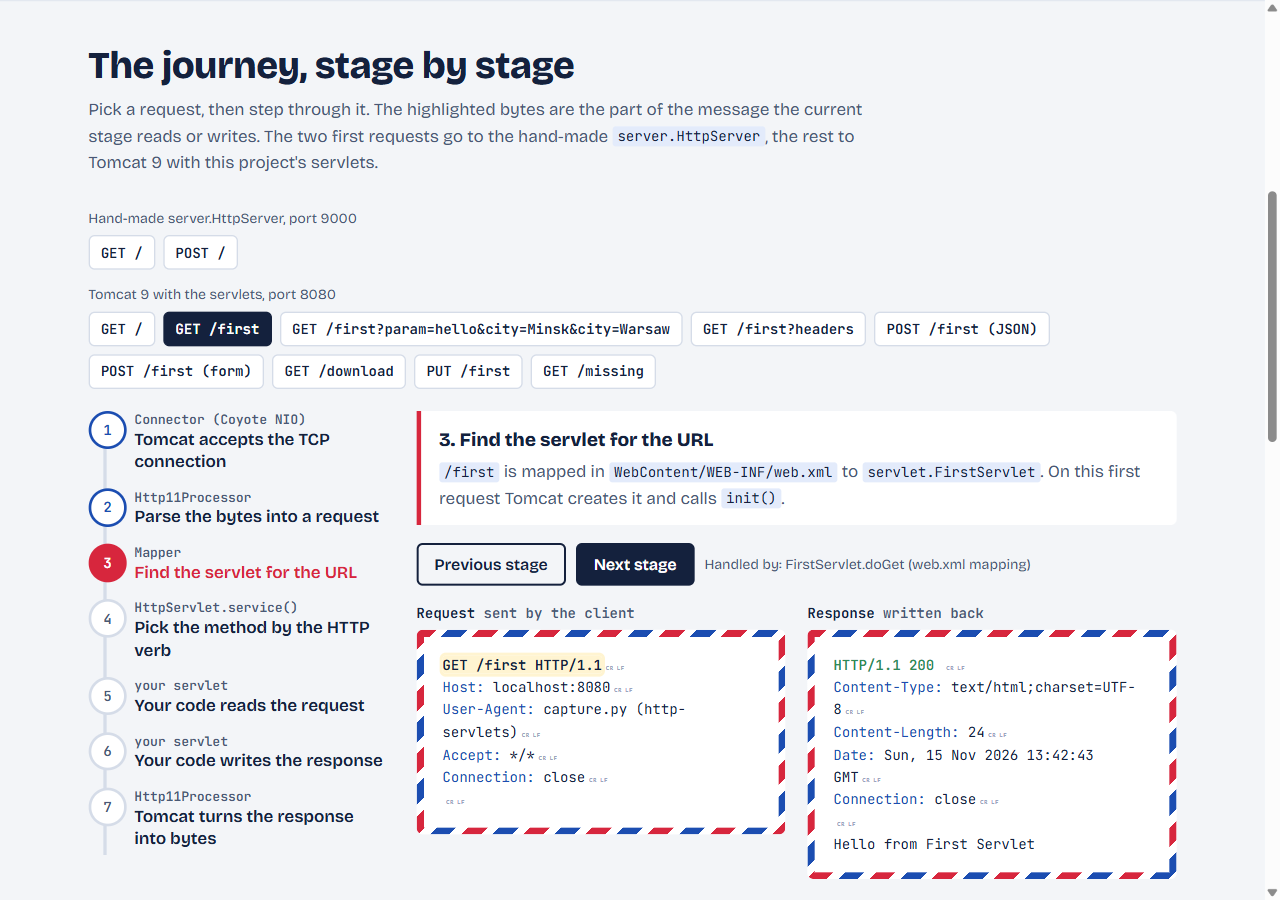
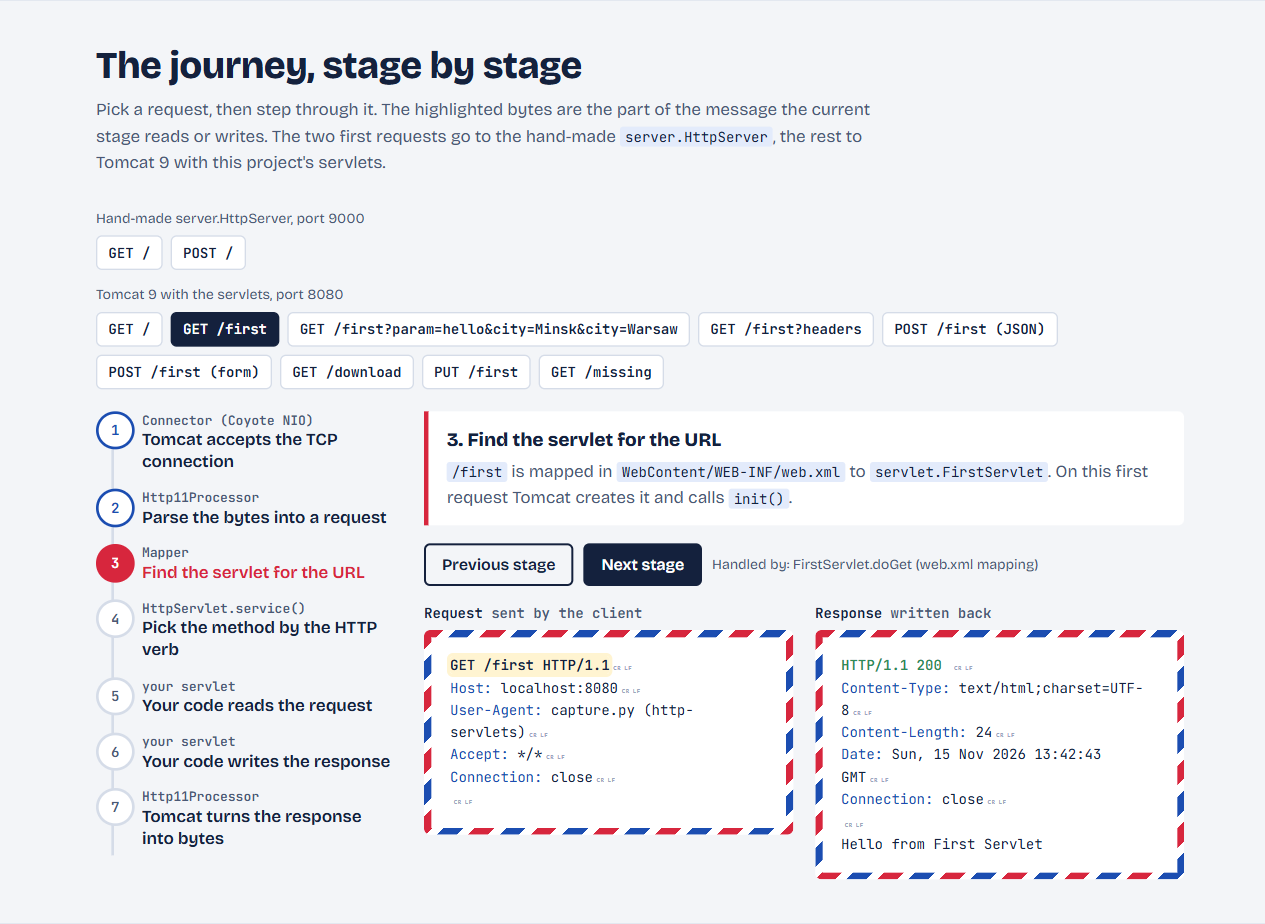
2026_Http_Servlets_Fix_README
- README: re-take the screenshots of the "under the hood" page as element
  screenshots: no browser scrollbar on the right, the "Run it in Codespaces"
  button is no longer cut off (under-the-hood.png, under-the-hood-journey.png).
- README: the Mermaid label of readRequest() wrote \r\n literally, which
  Mermaid turned into line breaks; now "the empty line (CR LF CR LF)".

diff --git a/README.md b/README.md
@@ -80,7 +80,7 @@ The hand-made `server.HttpServer` (yellow) is a few dozen lines that do, very si
 flowchart TB
     subgraph own["server.HttpServer (lesson 3)"]
         direction TB
-        o1["ServerSocket.accept()"] --> o2["readRequest(): bytes up to \r\n\r\n,<br/>then Content-Length bytes of body"]
+        o1["ServerSocket.accept()"] --> o2["readRequest(): bytes up to the empty line<br/>(CR LF CR LF), then Content-Length<br/>bytes of body"]
         o2 --> o3["always the same answer:<br/>html_example.html"]
         o3 --> o4["write status line, headers,<br/>empty line, body by hand"]
     end
